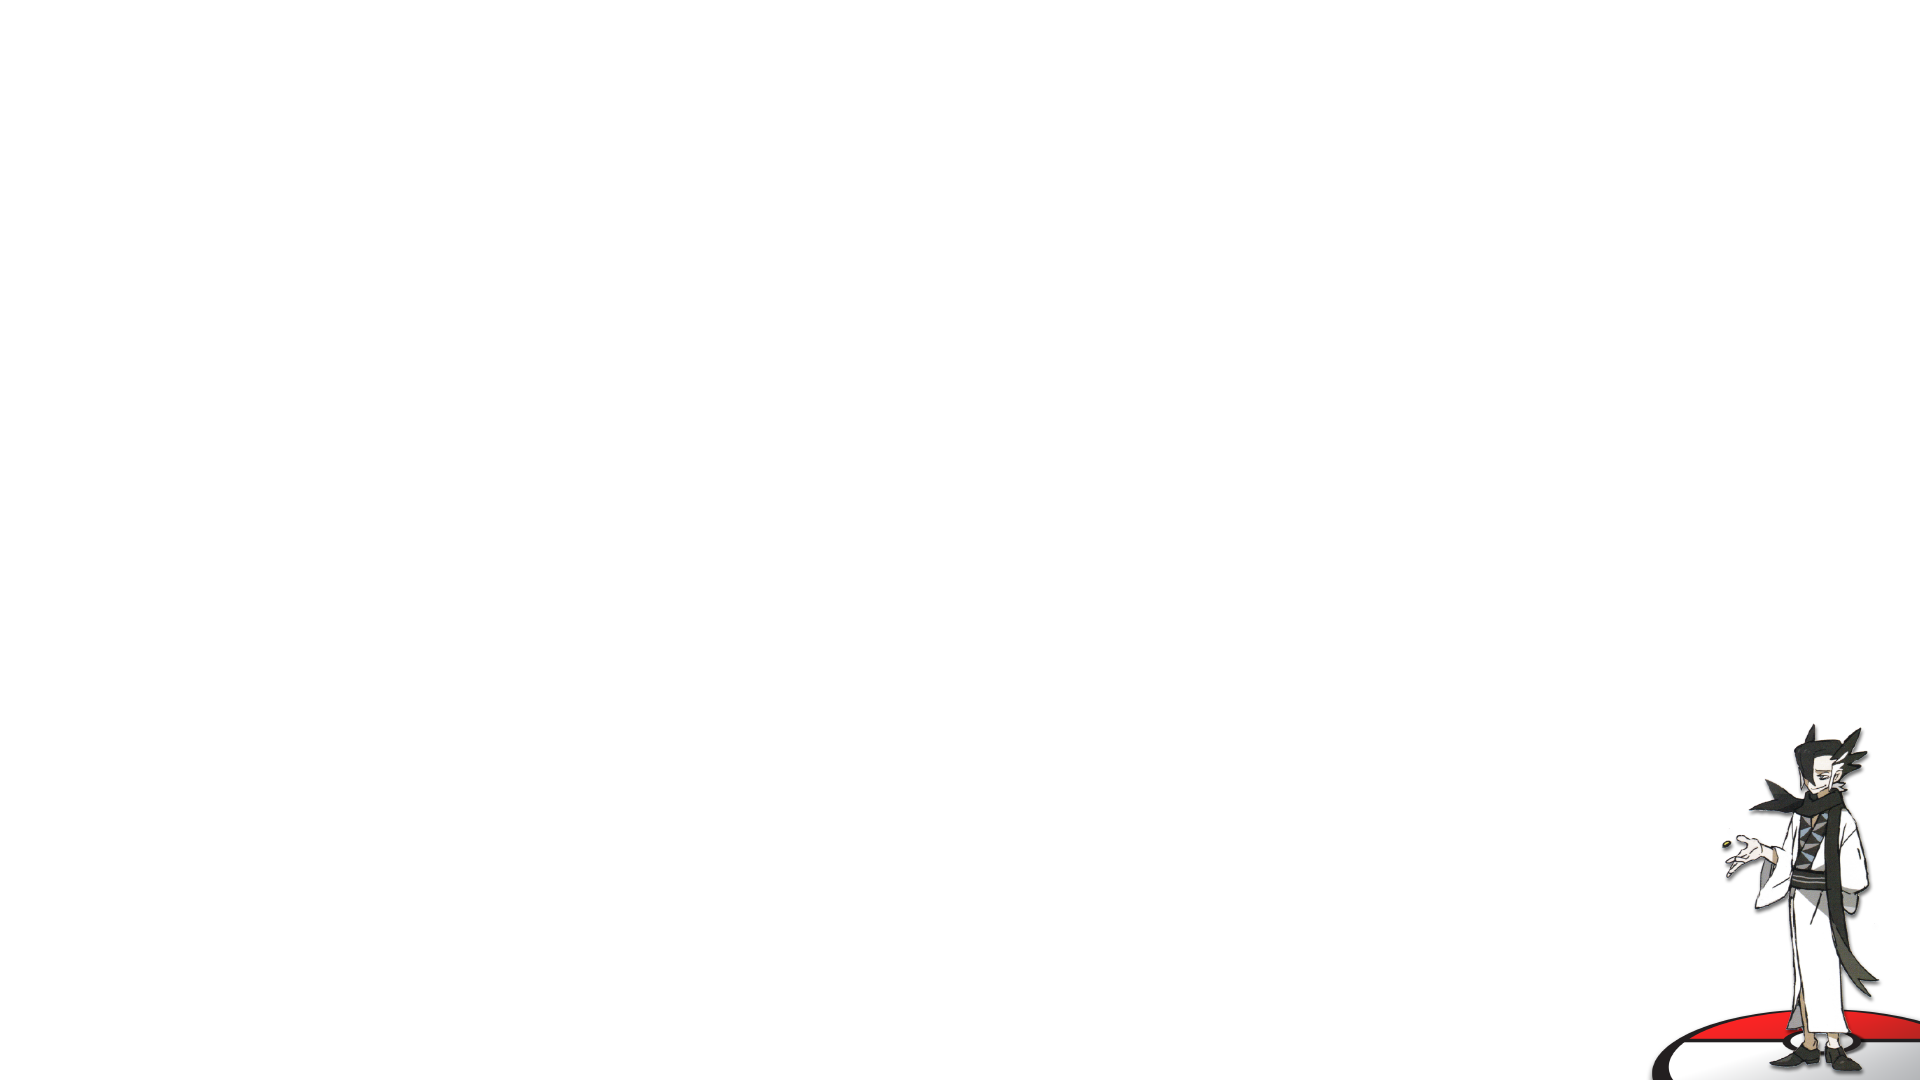
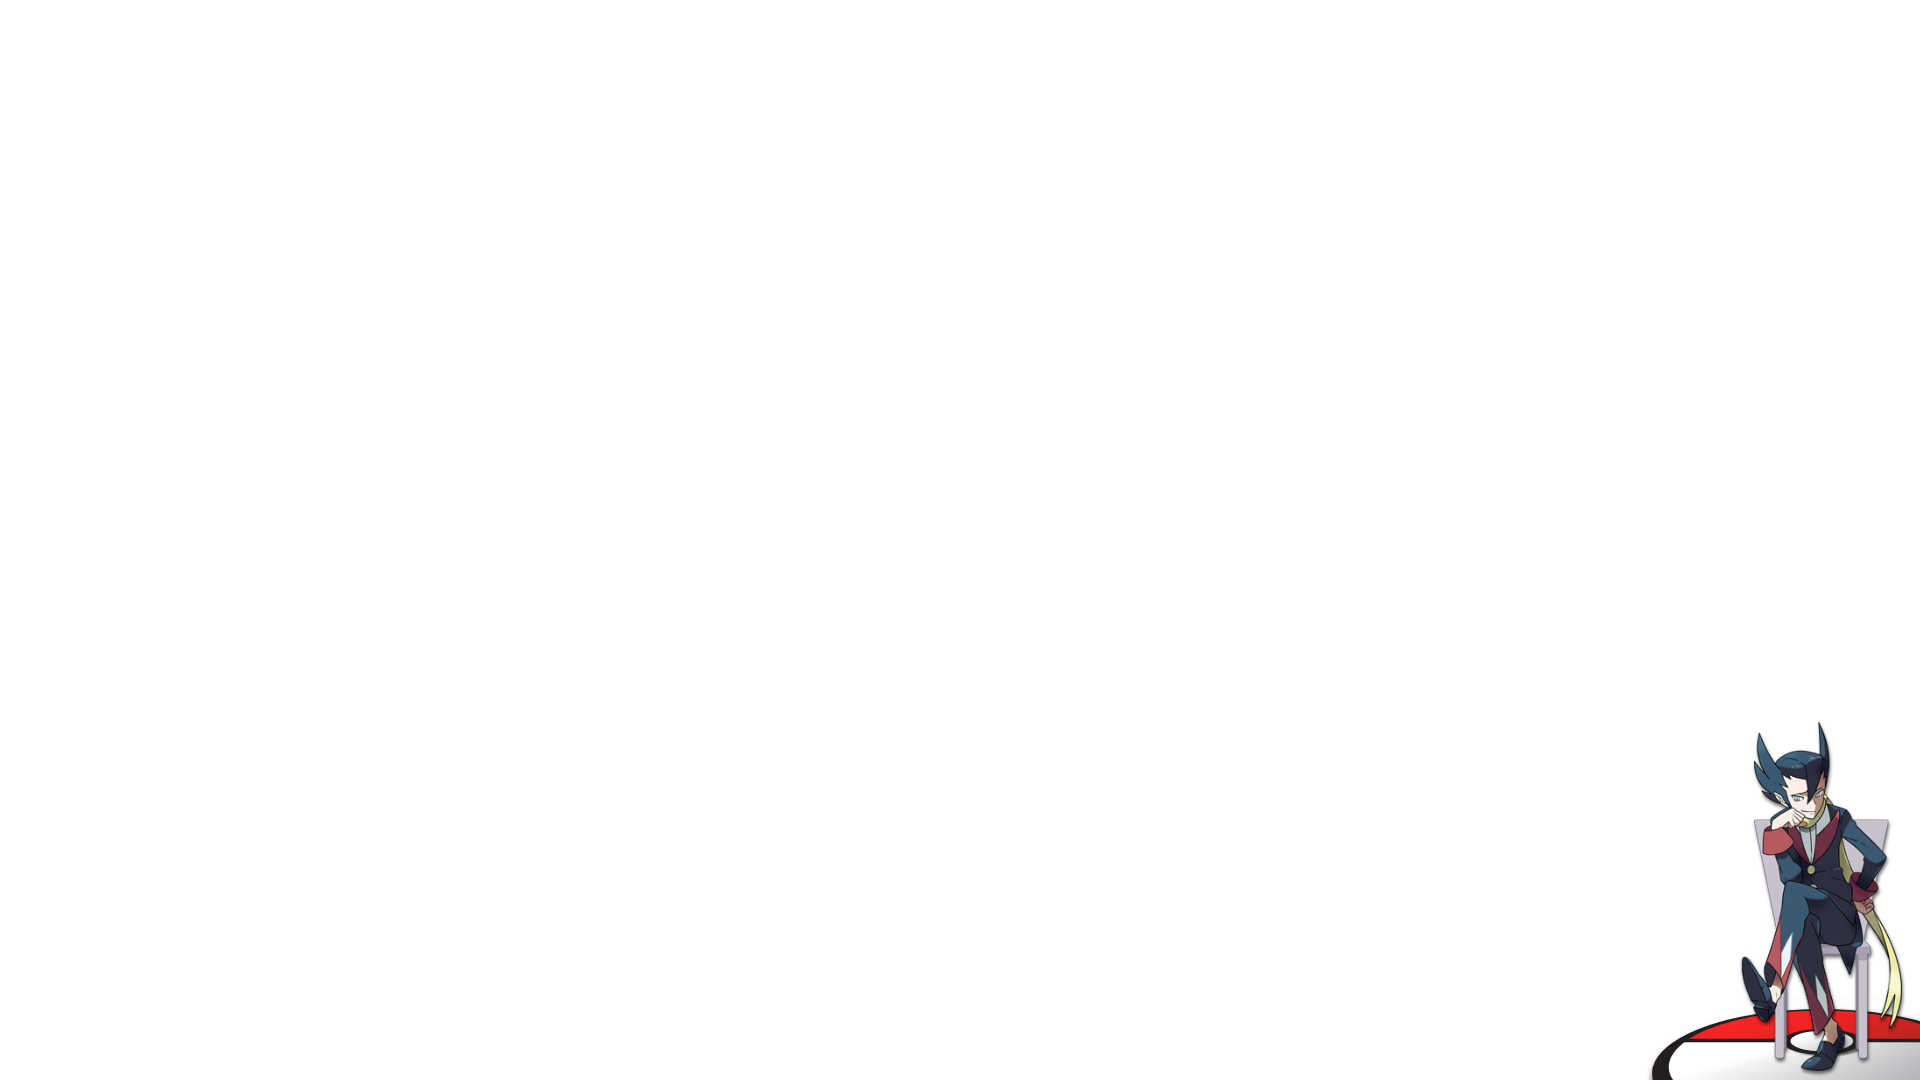
v0.1.18
- n split included
- fix for ui saturation
- fix for accuracy
- grimsley graphic updated
- silverpowder and blackglasses fix
- split icon fix

Changed region(s): [[0.875, 0.6722, 1.0, 1.0]]

diff --git a/app/frontend.js b/app/frontend.js
@@ -863,6 +863,7 @@ const app = Vue.createApp({
     created() {
         if (MyStorage[`${this.mapper?.properties.meta.game_name.value}_${this.starter}`]) {  
             this.overlay_color          = MyStorage[`${this.mapper?.properties.meta.game_name.value}_${this.starter}`].overlay_color           ?? this.default_colors[g5PokemonData[this.starter].type_1];
+            this.ui_saturation          = MyStorage[`${this.mapper?.properties.meta.game_name.value}_${this.starter}`].ui_saturation           ?? .6;
             this.imageXOffset           = MyStorage[`${this.mapper?.properties.meta.game_name.value}_${this.starter}`].imageXOffset            ?? 0;
             this.imageYOffset           = MyStorage[`${this.mapper?.properties.meta.game_name.value}_${this.starter}`].imageYOffset            ?? 0;
             this.imageScale             = MyStorage[`${this.mapper?.properties.meta.game_name.value}_${this.starter}`].imageScale              ?? 1;
@@ -999,6 +1000,7 @@ const app = Vue.createApp({
             }
             //background texture settings
             this.overlay_color          = MyStorage[`${game}_${starter}`]?.overlay_color    ?? this.default_colors[this.g5PokemonData[starter].type_1];
+            this.ui_saturation          = MyStorage[`${game}_${starter}`]?.ui_saturation    ?? 0.6;
            
             this.evolution              = MyStorage[`${game}_${starter}`]?.evolution ?? false
             this.evolution_splits_label = MyStorage[`${game}_${starter}`]?.evolution_splits_label ?? ""
@@ -1160,54 +1162,63 @@ const app = Vue.createApp({
                 let lastPushedTrainer = null; // Keep track of the last pushed trainer
                 if (debugging_mode == true) { console.log("lastPushedTrainer:", lastPushedTrainer) } 
 
-                const trainersToSkip = ["Bianca", "Cheren", "N"]; // Trainers to skip
+                const trainersToSkip = ["Bianca", "Cheren"]; // Trainers to skip
 
                 let default_splits = [
-                    { trainer: "Chili",    time: "0", previous_time: "0", current_time: "0", difference: "0" },
-                    { trainer: "Lenora",   time: "0", previous_time: "0", current_time: "0", difference: "0" },
-                    { trainer: "Burgh",    time: "0", previous_time: "0", current_time: "0", difference: "0" },
-                    { trainer: "Elesa",    time: "0", previous_time: "0", current_time: "0", difference: "0" },
-                    { trainer: "Clay",     time: "0", previous_time: "0", current_time: "0", difference: "0" },
-                    { trainer: "Skyla",    time: "0", previous_time: "0", current_time: "0", difference: "0" },
-                    { trainer: "Brycen",   time: "0", previous_time: "0", current_time: "0", difference: "0" },
-                    { trainer: "Drayden",  time: "0", previous_time: "0", current_time: "0", difference: "0" },
-                    { trainer: "Shauntal", time: "0", previous_time: "0", current_time: "0", difference: "0" },
-                    { trainer: "Grimsley", time: "0", previous_time: "0", current_time: "0", difference: "0" },
-                    { trainer: "Caitlin",  time: "0", previous_time: "0", current_time: "0", difference: "0" },
-                    { trainer: "Marshal",  time: "0", previous_time: "0", current_time: "0", difference: "0" },
-                    { trainer: "Ghetsis",  time: "0", previous_time: "0", current_time: "0", difference: "0" },
+                    { trainer: "Chili",    id: null, time: "0", previous_time: "0", current_time: "0", difference: "0" },
+                    { trainer: "Lenora",   id: null, time: "0", previous_time: "0", current_time: "0", difference: "0" },
+                    { trainer: "Burgh",    id: null, time: "0", previous_time: "0", current_time: "0", difference: "0" },
+                    { trainer: "Elesa",    id: null, time: "0", previous_time: "0", current_time: "0", difference: "0" },
+                    { trainer: "Clay",     id: null, time: "0", previous_time: "0", current_time: "0", difference: "0" },
+                    { trainer: "Skyla",    id: null, time: "0", previous_time: "0", current_time: "0", difference: "0" },
+                    { trainer: "Brycen",   id: null, time: "0", previous_time: "0", current_time: "0", difference: "0" },
+                    { trainer: "Drayden",  id: null, time: "0", previous_time: "0", current_time: "0", difference: "0" },
+                    { trainer: "Shauntal", id: null, time: "0", previous_time: "0", current_time: "0", difference: "0" },
+                    { trainer: "Grimsley", id: null, time: "0", previous_time: "0", current_time: "0", difference: "0" },
+                    { trainer: "Caitlin",  id: null, time: "0", previous_time: "0", current_time: "0", difference: "0" },
+                    { trainer: "Marshal",  id: null, time: "0", previous_time: "0", current_time: "0", difference: "0" },
+                    { trainer: "N",        id: 587,  time: "0", previous_time: "0", current_time: "0", difference: "0" },
+                    { trainer: "Ghetsis",  id: null, time: "0", previous_time: "0", current_time: "0", difference: "0" },
                 ]
                 let previous_splits_data = this.previous_splits.length == 0 ? default_splits : this.previous_splits
-                console.log(this.previous_splits)
-                console.log(default_splits)
-                console.log(previous_splits_data)
+                // console.log(this.previous_splits)
+                // console.log(default_splits)
+                // console.log(previous_splits_data)
                 for (const x of previous_splits_data) {
-                    // if (debugging_mode == true) { console.log("For loop:", x) } 
-                    if (this.game.splits.includes(x.trainer)) {
-                        const default_string = "-"
-                        const cur_split = this.current_splits.find(y => y.trainer === x.trainer)
-                        const prev = this.convertDurationToSeconds(x.time)
-                        if (cur_split == undefined) { 
-                            if (x.trainer !== lastPushedTrainer && !trainersToSkip.includes(x.trainer)) { // Check if the current trainer is the same as the last pushed one and if it should be skipped
-                                result.push({trainer: x.trainer, previous_time: this.convertSecondsToDuration(prev), current_time: default_string, difference: default_string}) 
-                                lastPushedTrainer = x.trainer; // Update the last pushed trainer
-                            }
+                    // if (debugging_mode == true) { console.log("For loop:", x) }
+                    // Final N battle is ID 587
+                    let trainer = x.trainer
+                    let id = x.id
+                    if (this.game.splits.includes(trainer)) {
+                        if (trainer == "N" && id !== 587) {
                             continue
                         }
-                        const cur = this.convertDurationToSeconds(cur_split.time)
-                        const diff = cur - prev;
-                        const diff_abs = Math.abs(diff);
-                        const diff_sign = Math.sign(diff);
-                        const diff_m = Math.floor(diff_abs / 60);
-                        const diff_s = diff_abs % 60;
-                        var diff_str = `${diff_sign === -1 ? "-" : "+"}${diff_m}:${diff_s.toString().padStart(2, "0")}`;
-                        if (diff_str == "+0:00") { diff_str = "0:00" }
-                        console.log({trainer: x.trainer, previous_time: this.convertSecondsToDuration(prev), current_time: this.convertSecondsToDuration(cur), difference: diff_str})
-                        if (x.trainer !== lastPushedTrainer && !trainersToSkip.includes(x.trainer)) { // Check if the current trainer is the same as the last pushed one and if it should be skipped
-                            console.log({trainer: x.trainer, previous_time: this.convertSecondsToDuration(prev), current_time: this.convertSecondsToDuration(cur), difference: diff_str})
-
-                            result.push({trainer: x.trainer, previous_time: this.convertSecondsToDuration(prev), current_time: this.convertSecondsToDuration(cur), difference: diff_str})
-                            lastPushedTrainer = x.trainer; // Update the last pushed trainer
+                        else {
+                            const default_string = "-"
+                            const cur_split = this.current_splits.find(y => y.trainer === trainer)
+                            const prev = this.convertDurationToSeconds(x.time)
+                            if (cur_split == undefined) { 
+                                if (trainer !== lastPushedTrainer && !trainersToSkip.includes(trainer)) { // Check if the current trainer is the same as the last pushed one and if it should be skipped
+                                    result.push({trainer: trainer, previous_time: this.convertSecondsToDuration(prev), current_time: default_string, difference: default_string}) 
+                                    lastPushedTrainer = trainer; // Update the last pushed trainer
+                                }
+                                continue
+                            }
+                            const cur = this.convertDurationToSeconds(cur_split.time)
+                            const diff = cur - prev;
+                            const diff_abs = Math.abs(diff);
+                            const diff_sign = Math.sign(diff);
+                            const diff_m = Math.floor(diff_abs / 60);
+                            const diff_s = diff_abs % 60;
+                            var diff_str = `${diff_sign === -1 ? "-" : "+"}${diff_m}:${diff_s.toString().padStart(2, "0")}`;
+                            if (diff_str == "+0:00") { diff_str = "0:00" }
+                            console.log({trainer: trainer, previous_time: this.convertSecondsToDuration(prev), current_time: this.convertSecondsToDuration(cur), difference: diff_str})
+                            if (trainer !== lastPushedTrainer && !trainersToSkip.includes(trainer)) { // Check if the current trainer is the same as the last pushed one and if it should be skipped
+                                console.log({trainer: trainer, previous_time: this.convertSecondsToDuration(prev), current_time: this.convertSecondsToDuration(cur), difference: diff_str})
+    
+                                result.push({trainer: trainer, previous_time: this.convertSecondsToDuration(prev), current_time: this.convertSecondsToDuration(cur), difference: diff_str})
+                                lastPushedTrainer = trainer; // Update the last pushed trainer
+                            }
                         }
                     }
                 }
@@ -3552,10 +3563,13 @@ const app = Vue.createApp({
                     default: item_modifier = 1; break;
                 }
                 if (item_modifier == 1) {
-                    return accuracy
+                    return accuracy 
                 }
                 else {
                     calculated_accuracy = Math.floor(accuracy * item_modifier) <= 100 ? Math.floor(accuracy * item_modifier) : 100
+                }
+                if (calculated_accuracy >= 100) { 
+                    calculated_accuracy = 100 
                 }
                 return calculated_accuracy
             }
@@ -5516,7 +5530,7 @@ const app = Vue.createApp({
                 let player_name  = this.mapper.properties.player.name.value
                 let pokemon      = this.starter
                 let trainer_name = this.mapper.properties.battle.opponent.trainer.value
-                let trainer_id           = this.mapper.properties.battle.opponent.trainer.bytes
+                let trainer_id           = this.mapper.properties.battle.opponent.id.bytes
                 let location             = this.mapper.properties.overworld.map_name.value
                 let total_pokemon        = this.mapper.properties.battle.opponent.team_count.value
                 const formattedTime = this.timer.formatted_time;
@@ -5782,6 +5796,7 @@ const app = Vue.createApp({
                     this.current_splits.push({
                         trainer: trainer_name, 
                         time:    real_time_hmmss,
+                        id:      trainer_id,
                     })
                 }
             }
@@ -5851,13 +5866,14 @@ const app = Vue.createApp({
                     }
                 }
                 if (this.game.splits.includes(trainer) && !this.game.finalBattle.includes(trainer)) {
-                    console.log("Simple split attempted to be collected...")
                     simpleSplit();
                     if (this.automatic_post_battle_splits == true && this.game.post_battle_splits.includes(trainer)) {
-                        console.log("Switching to splits UI...")
-                        // this.battle_summary_header = `${this.capitalization_format(trainer)} Summary`
-                        this.right_ui = "Splits"
-                        // this.automatic_splits = true
+                        if (trainer == "N" && id !== 587) {
+
+                        }
+                        else {
+                            this.right_ui = "Splits"
+                        }
                     }
                 }
         

diff --git a/app/index.html b/app/index.html
@@ -2,7 +2,7 @@
 <html>
 <head>
     <meta charset="utf-8">
-    <title>Scott's Thoughts Gen5 Frontend - v0.1.17</title>
+    <title>Scott's Thoughts Gen5 Frontend - v0.1.18</title>
     <link rel="stylesheet" href="style.css" id="cssStylesheet">
 </head>
 
@@ -539,7 +539,7 @@
                                 <td style="text-decoration: underline; font-size: 16px; width: 71px;  text-align: right; padding-right: 7px;">Diff</td>
                             </tr>
                             <tr v-for="split in compare_splits">
-                                <td style="font-size: 16px; text-align: left; padding-left: 5px;"><img class="icons splitIcon" :src="`images/split_images/${split.trainer}.png`" /></td>
+                                <td style="font-size: 16px; text-align: left; padding-left: 5px;"><img class="icons splitIcon" :src="`images/split_images/${split.trainer?.toLowerCase()}.png`" /></td>
                                 <td style="font-size: 16px; text-align: left; padding-left: 5px;">{{split.trainer}}</td>
                                 <td style="font-size: 16px; text-align: right;">{{split.previous_time == "0:00" ? "-" : split.previous_time}}</td>
                                 <td style="font-size: 16px; text-align: right;">{{split.current_time}}</td>
@@ -558,7 +558,7 @@
                                 <td style="text-decoration: underline; font-size: 16px; width: 71px;  text-align: right; padding-right: 7px;">Time</td>
                             </tr>
                             <tr v-for="split in compare_splits">
-                                <td style="font-size: 16px; text-align: left; padding-left: 5px;"><img class="icons splitIcon" :src="`images/split_images/${split.trainer}.png`" /></td>
+                                <td style="font-size: 16px; text-align: left; padding-left: 5px;"><img class="icons splitIcon" :src="`images/split_images/${split.trainer?.toLowerCase()}.png`" /></td>
                                 <td style="font-size: 16px; text-align: left; padding-left: 5px;">{{split.trainer}}</td>
                                 <td style="font-size: 16px; text-align: right;"></td>
                                 <td style="font-size: 16px; text-align: right;"></td>

diff --git a/app/lib/typeBoostingItems.js b/app/lib/typeBoostingItems.js
@@ -1,6 +1,7 @@
 const typeBoostingItems = {
     "Black Belt":     "Fighting",
     "Black Glasses":  "Dark",
+    "BlackGlasses":   "Dark",
     "Charcoal":       "Fire",
     "Dragon Fang":    "Dragon",
     "Hard Stone":     "Rock",
@@ -15,6 +16,7 @@ const typeBoostingItems = {
     "Polkadot Bow":   "Normal",
     "Sharp Beak":     "Flying",
     "Silver Powder":  "Bug",
+    "SilverPowder":   "Bug",
     "Soft Sand":      "Ground",
     "Spell Tag":      "Ghost",
     "Twisted Spoon":  "Psychic",

diff --git a/app/style.css b/app/style.css
@@ -1171,8 +1171,8 @@ img, span, div {
     margin-bottom: 2px;
 }
 .splitIcon {
-    width: 47.5px;
-    height: 47.5px;
+    width: 43.8px;
+    height: 43.8px;
     margin-top: 3px;
     margin-bottom: 3px;
 }

diff --git a/app/lib/game_variables.js b/app/lib/game_variables.js
@@ -51,6 +51,7 @@ const game_variables =
             "Grimsley",
             "Caitlin",
             "Marshal",
+            "N",
             "Ghetsis",
         ],
         "champion" : [
